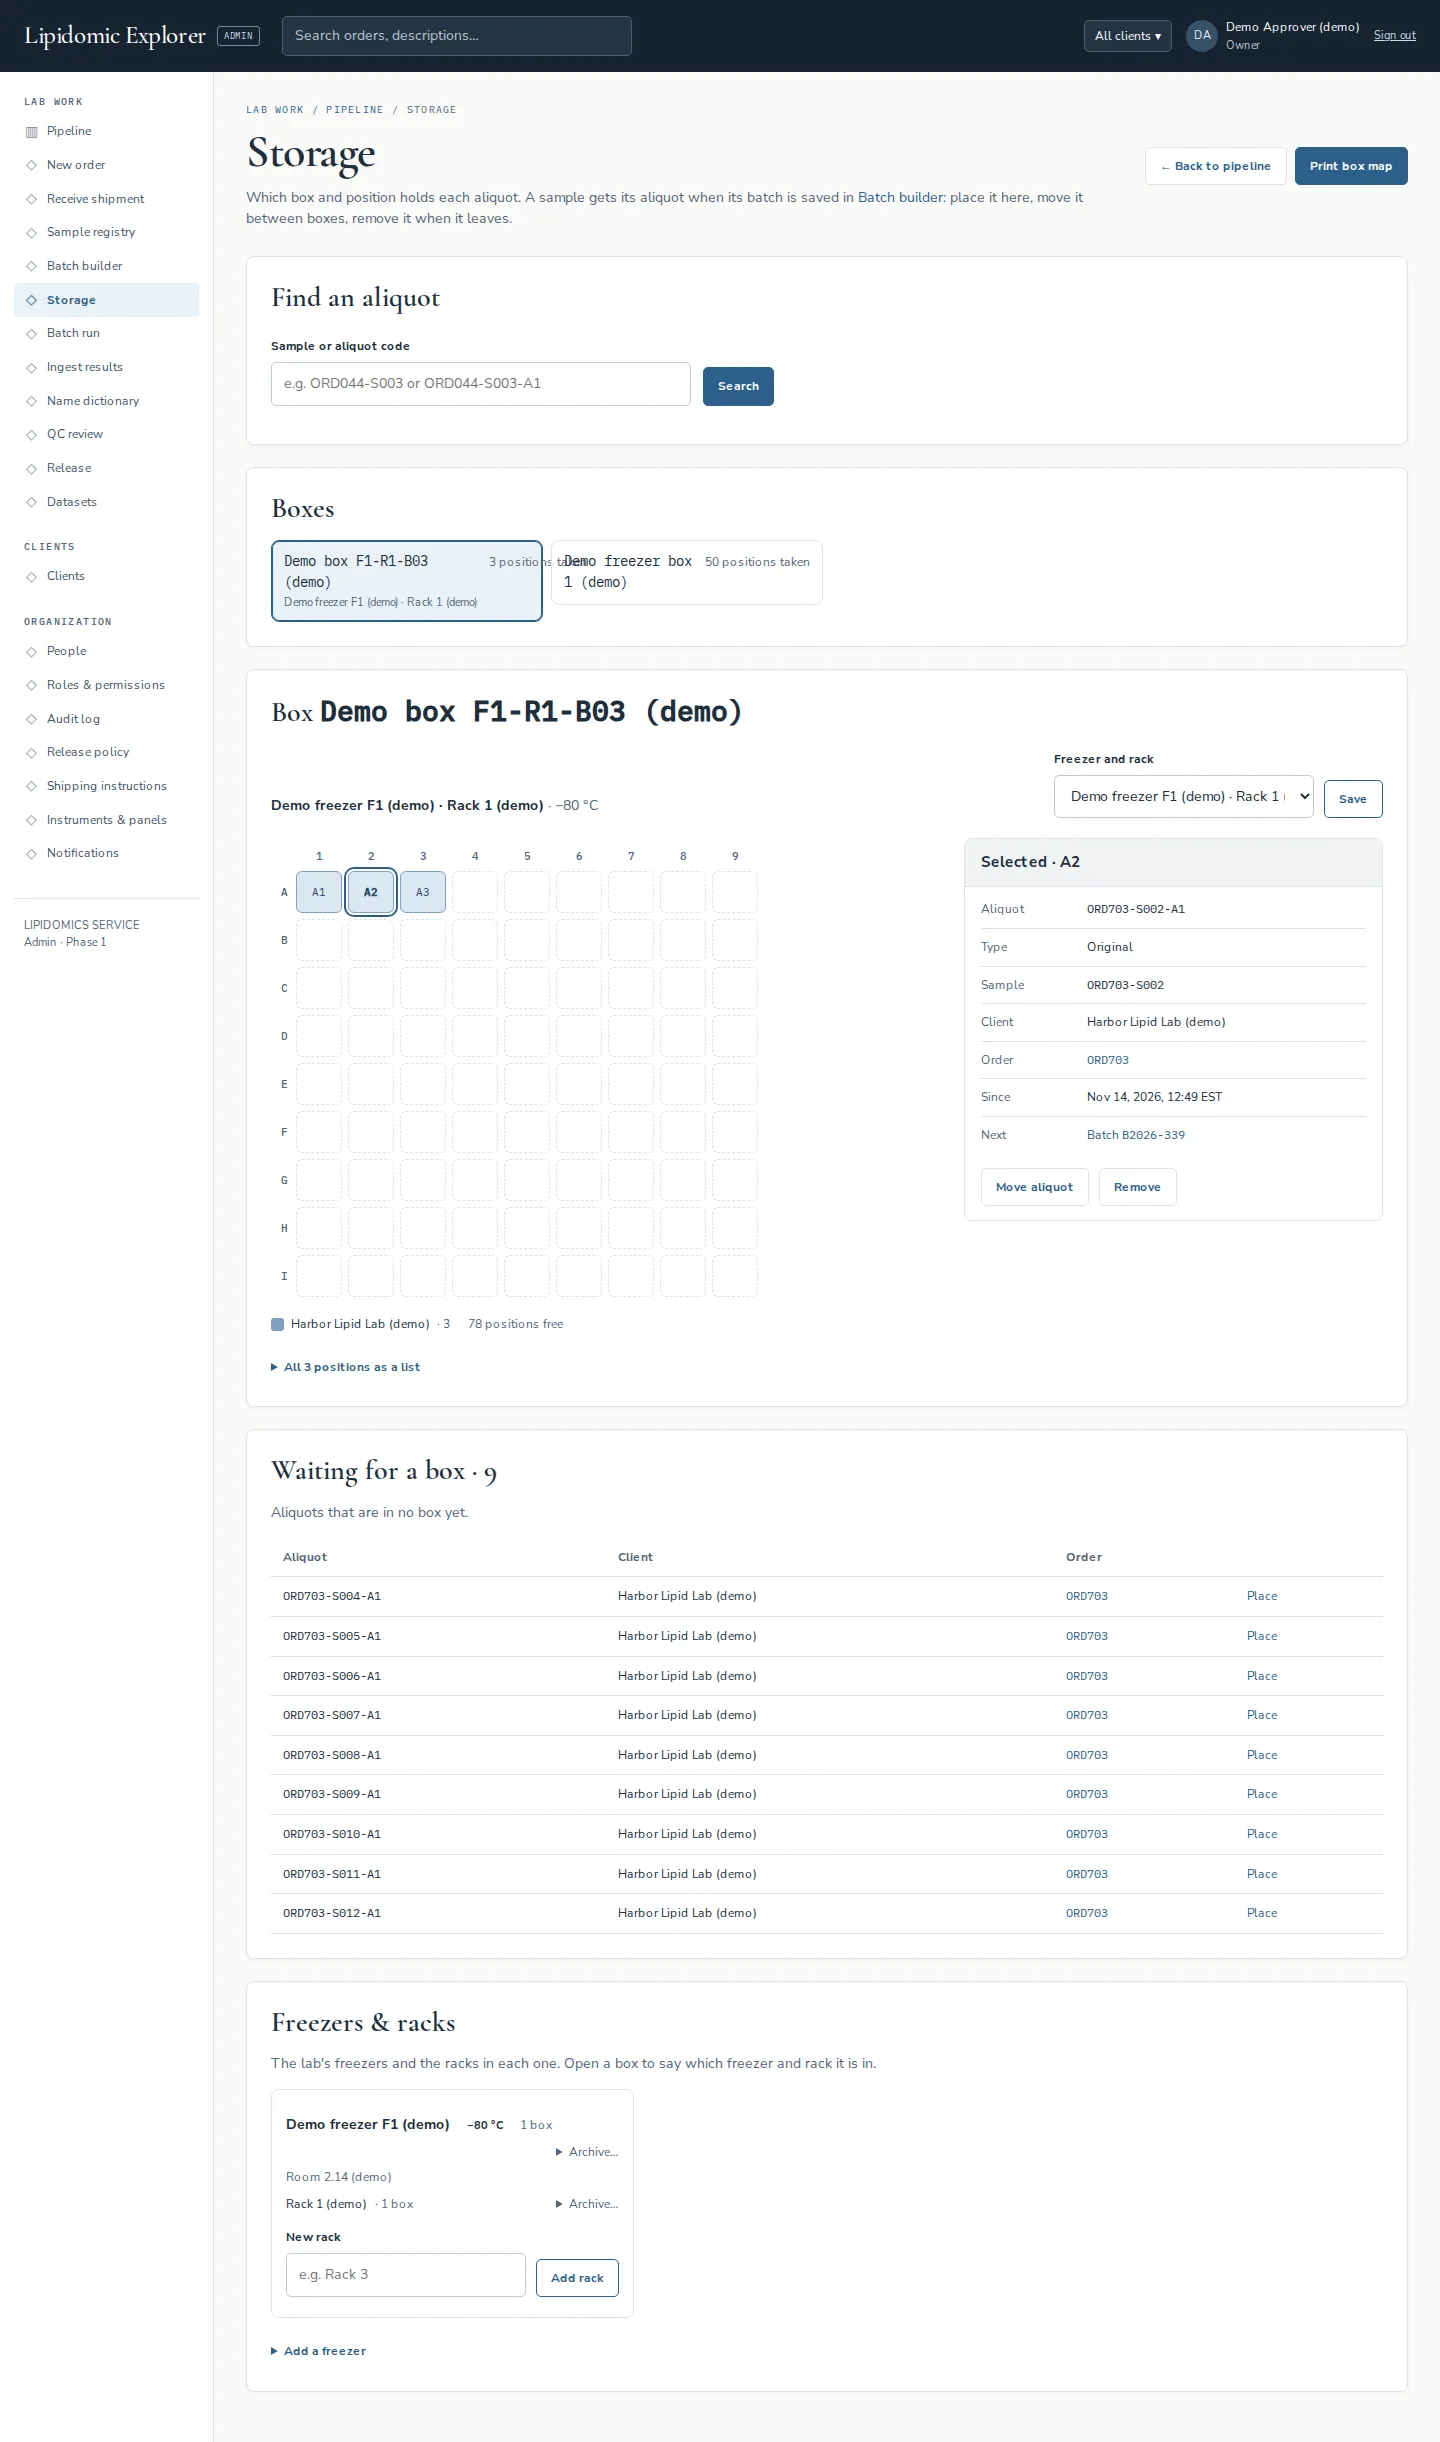
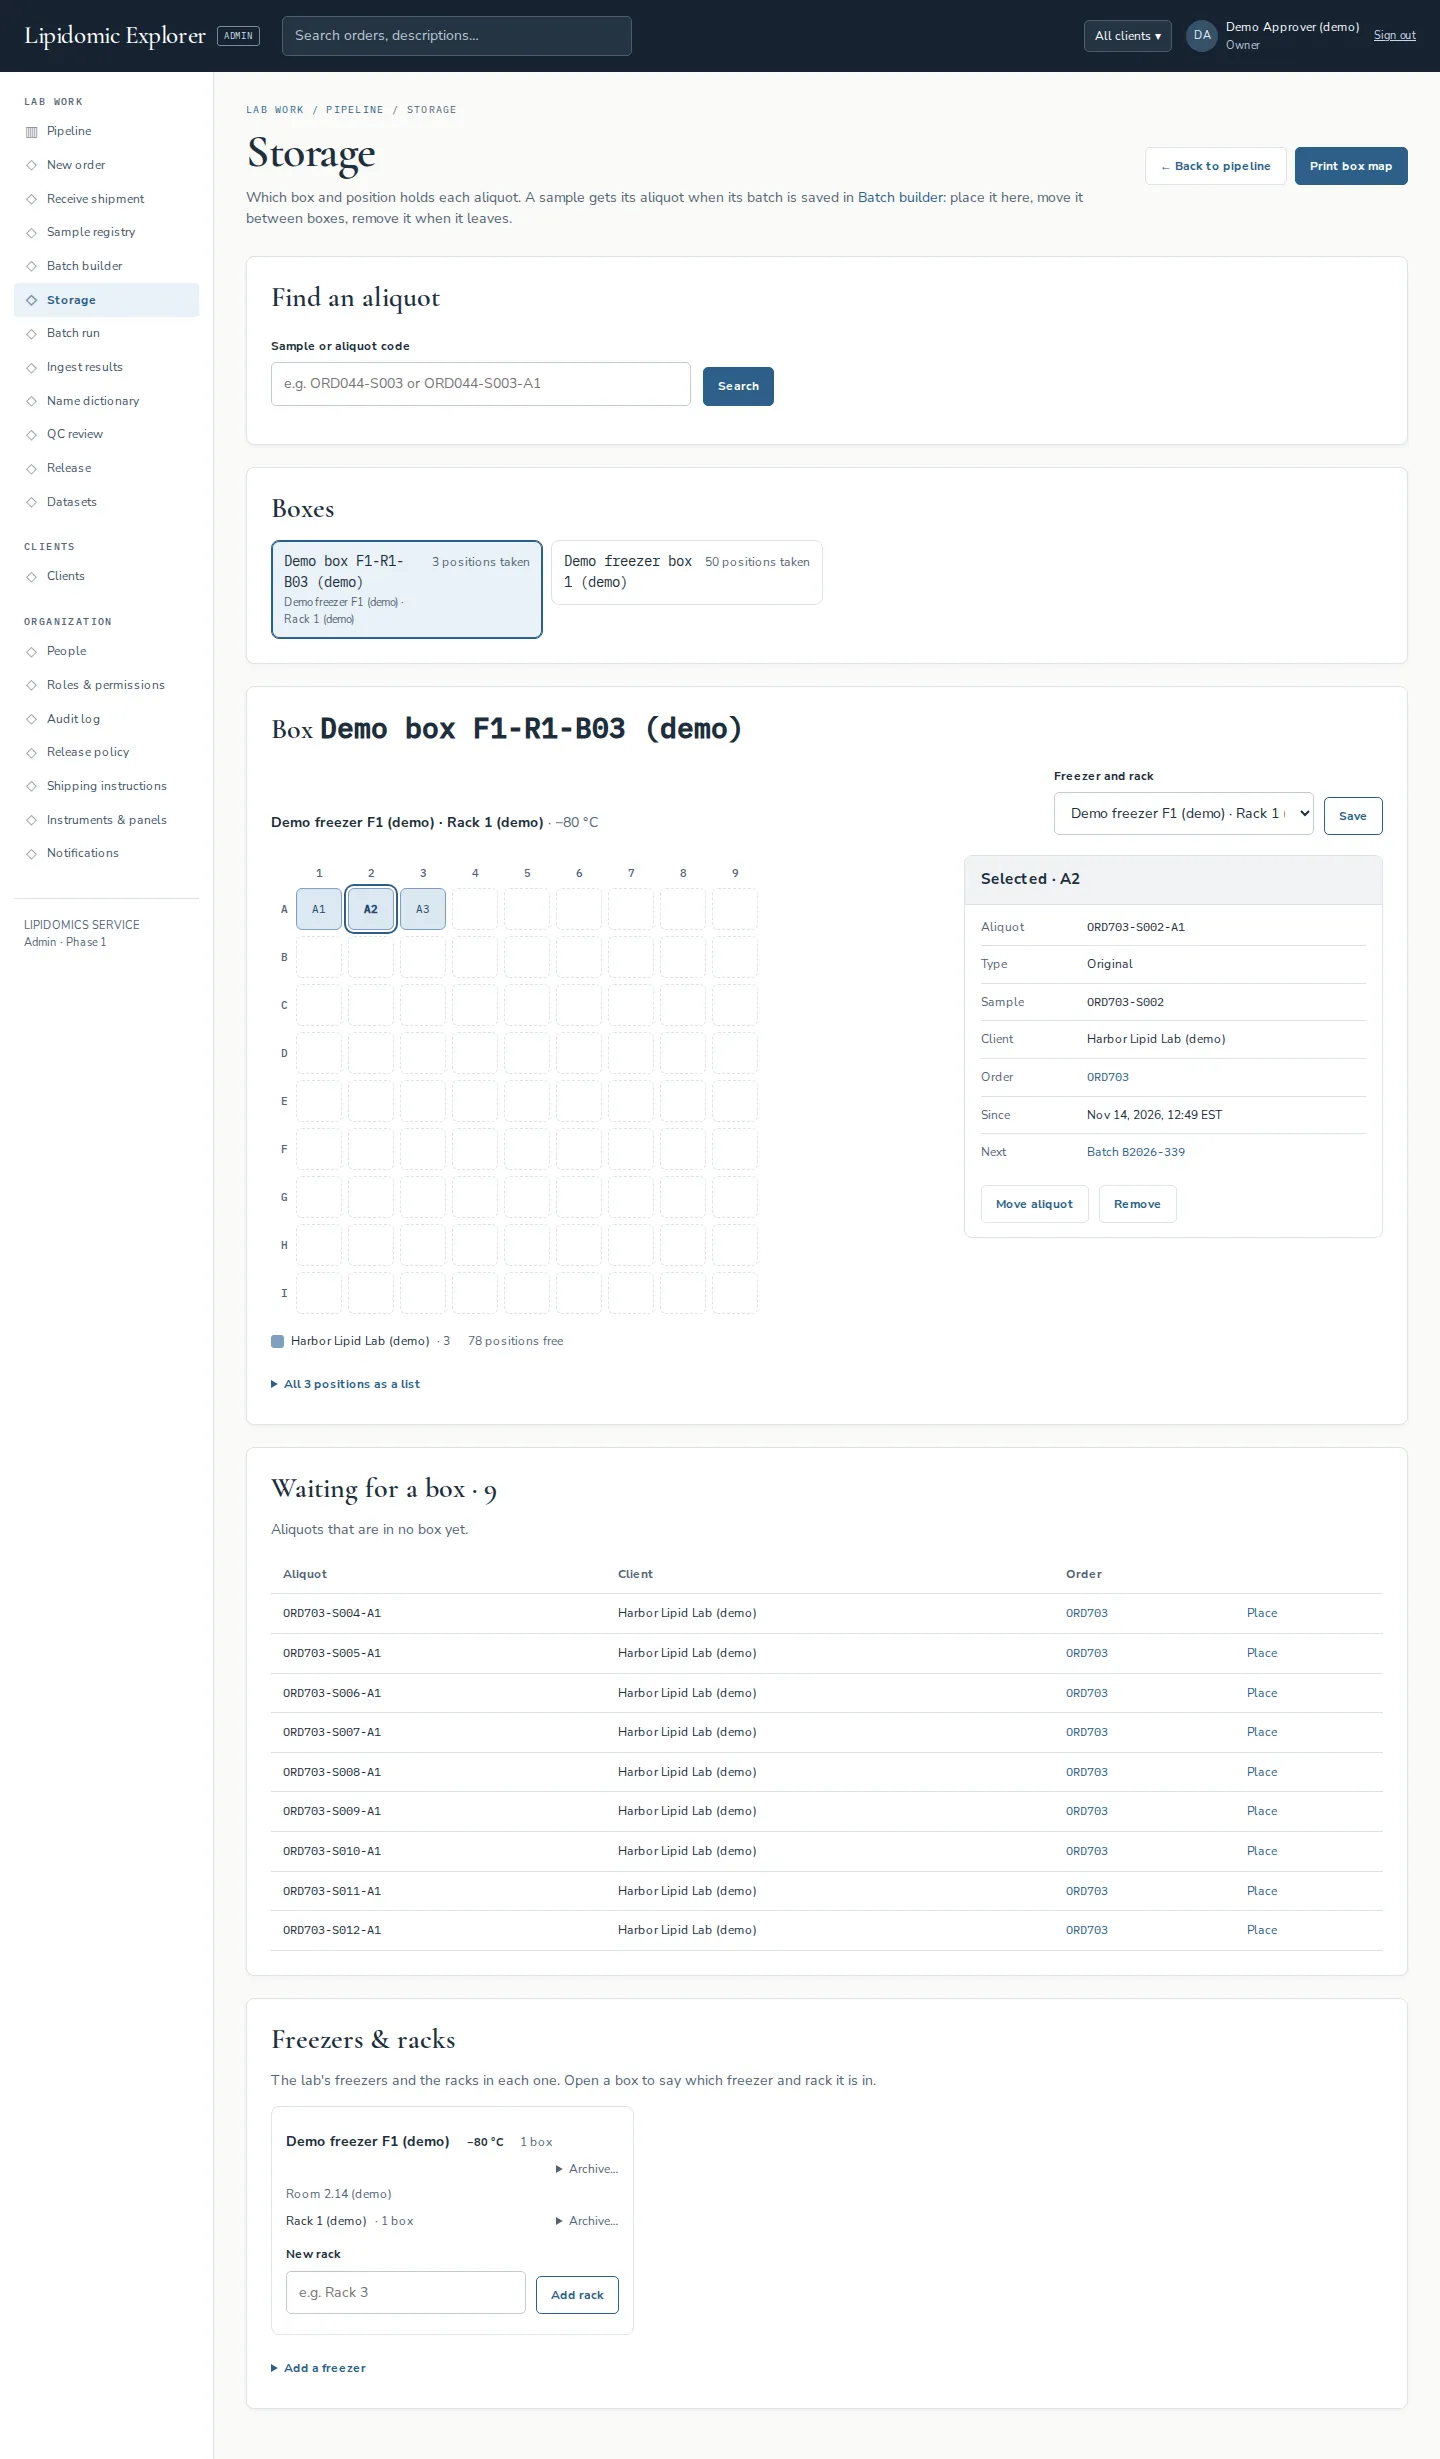
help: recapture registry, storage and phone People on staging 01e3ce97
The Shipment recorded banner now names the receiver (ORD704), the Storage
box cards no longer overlap, and the phone People shot shows the never /
Remind row with the table scrolled sideways. Alt text and the storage
caption follow what is visible.

diff --git a/frontends/help/help-data.js b/frontends/help/help-data.js
@@ -1,7 +1,7 @@
 /* Generated by tools/build-search-index.mjs from content.json and the screenshots folders.
    Do not edit this file: edit content.json (or add screenshots) and run the tool again. */
 window.HELP_DATA = {
-  "source": "b787007076f4f1ae",
+  "source": "0aa7e23209351563",
   "screenshots": {
     "desktop": [
       "access-request-listed",
@@ -292,11 +292,11 @@ window.HELP_DATA = {
       ],
       "storage": [
         1440,
-        1783
+        1698
       ],
       "storage-placed": [
         1440,
-        2442
+        2459
       ]
     },
     "mobile": {
@@ -418,7 +418,7 @@ window.HELP_DATA = {
       ],
       "people": [
         390,
-        488
+        646
       ],
       "qc-review": [
         390,
@@ -486,11 +486,11 @@ window.HELP_DATA = {
       ],
       "storage": [
         390,
-        2243
+        2158
       ],
       "storage-placed": [
         390,
-        3303
+        3320
       ]
     }
   },
@@ -867,7 +867,7 @@ window.HELP_DATA = {
               {
                 "file": "people",
                 "caption": "A client person who has never signed in: **never** under **Last active**, and **Remind**. Here the reminder was not emailed (a test address).",
-                "alt": "The People table’s column names (Person, Lab role, Clients and project roles, Last active) above one row: a client Viewer at Harbor Lipid Lab (demo) whose Last active reads never, with a Remind button, the note Not emailed, because the address’s domain is not on this server’s allowlist, and a Change link. On a phone the picture shows the top of the People page: the heading, the Roles & permissions and Invite person buttons and the table’s column names."
+                "alt": "The People table’s column names (Person, Lab role, Clients and project roles, Last active) above one row: a client Viewer at Harbor Lipid Lab (demo) whose Last active reads never, with a Remind button, the note Not emailed, because the address’s domain is not on this server’s allowlist, and a Change link. On a phone the table scrolls sideways; the picture shows it scrolled to the right, with Last active and Remind."
               }
             ]
           },
@@ -1108,12 +1108,12 @@ window.HELP_DATA = {
               {
                 "file": "sample-registry-prefill",
                 "caption": "Just after **Record arrival**: the list pasted in **New order** waits in **Paste from Excel**, to review and register.",
-                "alt": "Register samples · ORD703: a green notice that the shipment was recorded, the order facts (stage Received, 12 samples expected, 0 registered), and the Paste from Excel box filled with the 12-row sample list under the note From the order’s sample list — review and register, with the Add rows and Add empty row buttons. Map columns and Save 0 valid rows at the top."
+                "alt": "Register samples · ORD704: a green notice that the shipment was recorded, with the carrier, the condition, the time and the name of who received it; the order facts (stage Received, 12 samples expected, 0 registered); and the Paste from Excel box filled with the 12-row sample list under the note From the order’s sample list — review and register, with the Add rows and Add empty row buttons. Map columns and Save 0 valid rows at the top."
               },
               {
                 "file": "sample-registry",
                 "caption": "After **Add rows**: 12 valid rows, nothing to fix, ready for **Save 12 valid rows**.",
-                "alt": "Register samples · ORD703 after adding the rows: pills for 12 valid, 0 errors and 0 warnings; the grid with the Sample ID each row will get (ORD703-S001 to S012), client ID, FullName, the group, replicate, patient and time point terms, matrix and volume; Fix before saving with Nothing to fix; Checks Admin runs on every paste; and the Map columns and Save 12 valid rows buttons."
+                "alt": "Register samples · ORD704 after adding the rows: pills for 12 valid, 0 errors and 0 warnings; the grid with the Sample ID each row will get (ORD704-S001 to S012), client ID, FullName, the group, replicate, patient and time point terms, matrix and volume; Fix before saving with Nothing to fix; Checks Admin runs on every paste; and the Map columns and Save 12 valid rows buttons."
               }
             ]
           },
@@ -1195,8 +1195,8 @@ window.HELP_DATA = {
             "shots": [
               {
                 "file": "storage",
-                "caption": "After saving the batch: the order’s 12 aliquots wait for a box, each with **Place**.",
-                "alt": "The Storage page: Find an aliquot, the Boxes list, Waiting for a box · 12 with the aliquots ORD703-S001-A1 to S012-A1 and a Place link on each, and Freezers & racks with the demo freezer at −80 °C and its rack."
+                "caption": "After saving the batch: the order’s aliquots that are in no box yet wait here, each with **Place**.",
+                "alt": "The Storage page: Find an aliquot; the Boxes list with two boxes, one in Demo freezer F1 (demo) · Rack 1 (demo); Waiting for a box · 9 with the aliquots ORD703-S004-A1 to S012-A1 and a Place link on each; and Freezers & racks with the demo freezer at −80 °C and its rack."
               },
               {
                 "file": "storage-placed",
